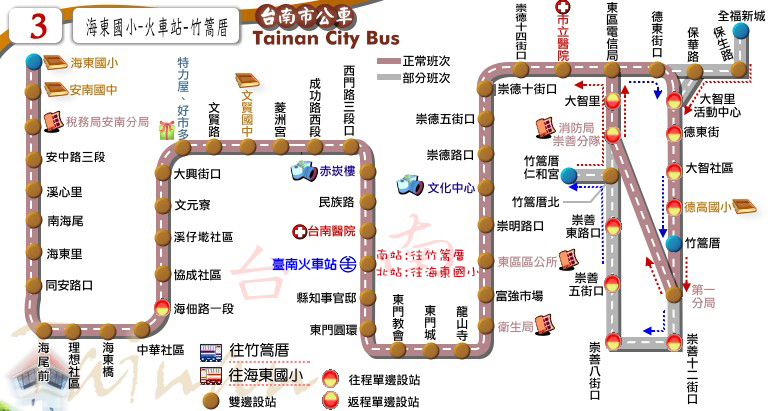
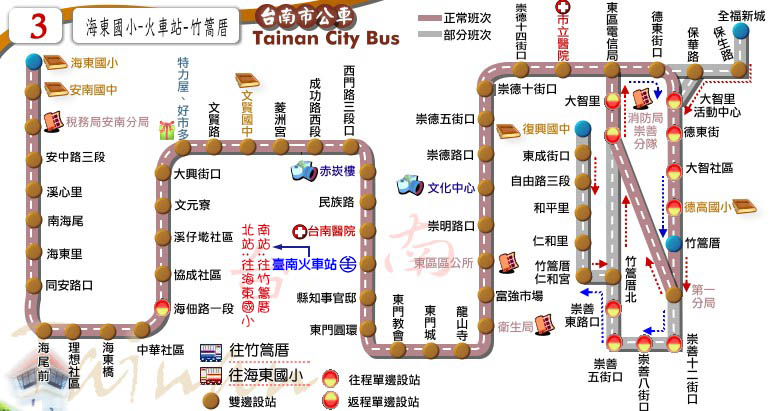
更新時刻表：3路 (延駛復興國中)

diff --git a/route/fare_and_time/city_bus_3.js b/route/fare_and_time/city_bus_3.js
@@ -1,32 +1,26 @@
-/*city_bus_3_interval_stop = [
-["海東國小","安南國中","稅務局安南分局","安中路三段","溪心里","南海尾","海東里","同安路口","海尾前","理想社區","海東橋",
-"中華社區","海佃路一段","協成社區","溪子墘社區","文元寮","大興街口","特力屋","文賢路","文賢國中","菱洲宮","成功路西段",
-"西門路三段口","赤崁樓","民族路","臺南醫院","臺南火車站","縣知事官邸","東門圓環","東門教會","東門城","龍山寺","衛生局",
-"富強市場","東區區公所","崇明路口","文化中心","中華東崇德路口","崇德五街口","崇德十街口","崇德十四街口","市立醫院","東區電信局",
-"德東街口","保華路","保生路","全福新城","大智里活動中心","德東街","大智社區","德高國小","竹篙厝","第一分局","崇善十二街口",
-"崇善八街口","崇善五街口","崇善東路口","竹篙厝北","竹篙厝仁和宮","消防局崇善分隊","大智里"]
-];
-city_bus_3_stop_time_consume = [0,1,3,4,5,6,7,9,10,12,13,15,16,16,17,18,20,20,20,21,23,24,25,26,28,28,29,29,31,32,34,34,35,35,36,38,39,40,40,40,41,42,42,43,45,46,47,48,49,50,51,51,52,53,53,54,55,57,58,60];*/
 // format = [time at the start stop] or
 // [time, other] or
 // [time, start_stop, end_stop, other]
-city_bus_3_main_stop_name = ["海東國小","海東橋","特力屋、<br />好市多","赤崁樓","臺南<br />火車站","文化中心","市立醫院","仁和宮","竹篙厝","全福新城"];
-city_bus_3_main_stop_time_consume = [0, 10, 15, 25, 35, 50, 55, 65, 65, 70];
-city_bus_3_important_stop = [0, 4, 8]; // 海東國小, 臺南火車站, 竹篙厝
-city_bus_3_time_go = [["06:00",0,8,[7,'W',[1,-5]]],["06:15",0,8,[7,'L']],["06:30",0,8,[7,'W']],["06:45",[7]],["07:05",0,8,[7]],
-["07:35",0,8,[7]],["08:00",0,8,[7]],["08:30",0,8,[7]],["09:00",0,8,[7]],["09:30",0,8,[7]],["10:00",[7]],["10:30",0,8,[7,'L']],
-["11:00",0,8,[7]],["11:30",0,8,[[8,5]]],["12:00",0,8,[7]],["12:30",0,8,[7]],["13:00",0,8,[7]],["13:30",0,8,[7,'L']],
-["14:00",0,8,[7]],["14:20",0,8,[7]],["14:40",[7]],["15:05",0,8,[7]],["15:25",0,8,[7]],["15:45",0,8,[7]],["16:00",0,8,[[8,5]]],
-["16:20",0,8,[[8,5]]],["16:40",0,8,[7,[4,5]]],["16:55",0,8,[7,'L',[4,5]]],["17:10",0,8,[7,[4,5]]],["17:25",0,8,[7,[4,5]]],
-["17:40",0,8,[7,[4,5]]],["18:00",0,8,[7,[4,5]]],["18:20",0,8,[7,[4,5]]],["18:45",0,8,[7]],["19:25",0,8,[7]],["20:00",0,8,[7]],
-["20:40",0,8,[7]],["21:15",0,8,[7]]
+city_bus_3_main_stop_name = ["海東國小","海東橋","特力屋、<br />好市多","赤崁樓","臺南<br />火車站","文化中心","市立醫院","竹篙厝","全福新城","復興國中"];
+city_bus_3_main_stop_time_consume = [0, 10, 15, 25, 35, 50, 55, 65, 70, 75];
+city_bus_3_important_stop = [0, 4, 7]; // 海東國小, 臺南火車站, 竹篙厝
+var start_stop = 0; // 海東國小
+var end_stop = 7; // 竹篙厝
+var end_stop_2 = 8; // 全福新城
+city_bus_3_time_go = [["06:00",start_stop,end_stop,['W',[1,-5]]],["06:15",start_stop,end_stop,['L']],["06:30",start_stop,end_stop,['W']],["06:45",start_stop,end_stop_2],["07:05",start_stop,end_stop],
+["07:35",start_stop,end_stop,['L']],["08:00",start_stop,end_stop],["08:30",start_stop,end_stop],["09:00",start_stop,end_stop],["09:30",start_stop,end_stop],["10:00",start_stop,end_stop_2],["10:30",start_stop,end_stop,['L']],
+["11:00",start_stop,end_stop,['L']],["11:30",[end_stop_2]],["12:00",start_stop,end_stop],["12:30",start_stop,end_stop],["13:00",start_stop,end_stop],["13:30",start_stop,end_stop,['L']],
+["14:00",start_stop,end_stop],["14:20",start_stop,end_stop],["14:40",start_stop,end_stop_2],["15:05",start_stop,end_stop],["15:25",start_stop,end_stop],["15:45",start_stop,end_stop],["16:00",[end_stop_2]],
+["16:20",start_stop,end_stop],["16:40",start_stop,end_stop,['L',[4,5]]],["16:55",[end_stop_2,[4,5]]],["17:10",start_stop,end_stop,[[4,5]]],["17:25",start_stop,end_stop,[[4,5]]],
+["17:40",start_stop,end_stop,[[4,5]]],["18:00",start_stop,end_stop,[[4,5]]],["18:20",start_stop,end_stop,[[4,5]]],["18:45",start_stop,end_stop],["19:25",start_stop,end_stop],["20:00",start_stop,end_stop],
+["20:40",start_stop,end_stop],["21:15",start_stop,end_stop]
 ];
-city_bus_3_time_return = [["06:00",8,0,[7,'W']],["06:15",8,0,[[7,5,4,5]]],["06:30",8,0,[7,'W',[4,5]]],["06:45",8,0,[[7,5,4,5]]],
-["07:10",8,0,[7,[4,5]]],["07:30",8,0,[7,'L',[4,5]]],["07:45",8,0,[7,[4,5]]],["08:00",[7,[4,5]]],["08:25",8,0,[7,[4,5]]],
-["08:50",8,0,[7,[4,5]]],["09:15",8,0,[7,[4,5]]],["09:45",8,0,[7,[4,5]]],["10:15",8,0,[7,[4,5]]],["10:45",8,0,[7,[4,5]]],
-["11:15",[7,[4,5]]],["11:45",8,0,[7,'L',[4,5]]],["12:15",8,0,[7,[4,5]]],["12:45",8,0,[[7,5,4,5]]],["13:15",8,0,[7,[4,5]]],
-["13:45",8,0,[7,[4,5]]],["14:15",8,0,[7,[4,5]]],["14:45",8,0,[7,'L',[4,5]]],["15:15",8,0,[7,[4,5]]],["15:35",8,0,[7,[4,5]]],
-["16:00",[7,[4,5]]],["16:20",8,0,[7,[4,5]]],["16:40",8,0,[7,[4,5]]],["17:00",8,0,[7,[4,10]]],["17:20",8,0,[[7,5,4,10]]],
-["17:40",8,0,[[7,5,4,10]]],["18:05",8,0,[7,[4,10]]],["18:25",8,0,[7,'L',[4,10]]],["18:50",8,0,[7,[4,10]]],["19:25",8,0,[7,[4,5]]],
-["20:00",8,0,[7,[4,5]]],["20:40",8,0,[7]],["21:15",8,0,[7,[4,5]]]
+city_bus_3_time_return = [["06:00",end_stop,start_stop,['W']],["06:15",[end_stop_2]],["06:30",end_stop,start_stop,['W',[4,5]]],["06:45",[end_stop_2]],
+["07:10",end_stop,start_stop,[[4,5]]],["07:30",end_stop,start_stop,['L',[4,5]]],["07:45",end_stop,start_stop,[[4,5]]],["08:00",end_stop_2,start_stop,[[4,5]]],["08:25",end_stop,start_stop,[[4,5]]],
+["08:50",end_stop,start_stop,[[4,5]]],["09:15",end_stop,start_stop,[[4,5]]],["09:45",end_stop,start_stop,[[4,5]]],["10:15",end_stop,start_stop,[[4,5]]],["10:45",end_stop,start_stop,[[4,5]]],
+["11:15",end_stop_2,start_stop,[[4,5]]],["11:45",end_stop,start_stop,['L',[4,5]]],["12:15",end_stop,start_stop,['L',[4,5]]],["12:50",[end_stop_2,[4,-5]]],["13:15",end_stop,start_stop,[[4,5]]],
+["13:45",end_stop,start_stop,[[4,5]]],["14:15",end_stop,start_stop,[[4,5]]],["14:45",end_stop,start_stop,['L',[4,5]]],["15:15",end_stop,start_stop,['L',[4,5]]],["15:35",end_stop,start_stop,[[4,5]]],
+["16:00",end_stop_2,start_stop,[[4,5]]],["16:20",end_stop,start_stop,[[4,5]]],["16:40",end_stop,start_stop,[[4,5]]],["17:00",end_stop,start_stop,[[4,10]]],["17:25",[end_stop_2]],
+["17:40",end_stop,start_stop,[[6,5,4,10]]],["18:05",end_stop,start_stop,['L',[4,10]]],["18:30",[end_stop_2,[4,-5]]],["18:50",end_stop,start_stop,[[4,10]]],["19:25",end_stop,start_stop,[[4,5]]],
+["20:00",end_stop,start_stop,[[4,5]]],["20:40",end_stop,start_stop],["21:15",end_stop,start_stop,[[4,5]]]
 ];

diff --git a/city_bus/city_bus_3.html b/city_bus/city_bus_3.html
@@ -20,7 +20,7 @@
 	block_route_map(null);
 	block_route_info(route_interval,'府城客運','尖15離30','一段票','http://2384.tainan.gov.tw:8080/AGPSRemoteQuery3/ajaxBus.jsp?pathId=10163&locale=zh_TW');
 	block_fare(1, null);
-	block_time_schedule('海東國小','竹篙厝',W_message+'；'+L_message);
+	block_time_schedule('海東國小','竹篙厝/全福新城/復興國中',W_message+'；'+L_message);
 	block_transfer(transfer_haidong_elementary_school + transfer_tainan_railway_station + transfer_culture_center);
 	block_copyright();
 </script>
